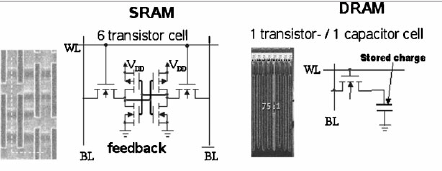
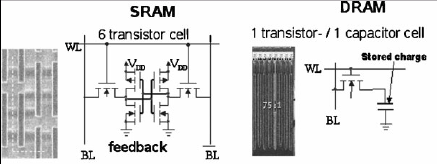
updated table

diff --git a/radiation.md b/radiation.md
@@ -92,7 +92,7 @@ SRAM is more rugged than capacitor based Dynamic Random Access Memory (DRAM). Ho
 
 <center>	 
 <figure>
-  <img src="{{ site.baseurl }}/images/sramdram.png" alt="SRAM and DRAM" style="width: 300px;"/>
+  <img src="{{ site.baseurl }}/images/sramdram.png" alt="SRAM and DRAM" style="width: 500px;"/>
   <figcaption>SRAM and DRAM</figcaption>
 </figure>
 </center>
@@ -112,21 +112,17 @@ SRAM vs DRAM
 <td>faster data access</td>
 <td>slower data access</td>
 </tr>
-</tr>
 <tr>
 <td>consumes more power</td>
 <td>consumes less power</td>
-</tr>
 </tr>
 <tr>
 <td>less density/memory per chip</td>
 <td>higher density/memory per chip</td>
 </tr>
-</tr>
 <tr>
 <td>higher cost per bit</td>
 <td>lower cost per bit</td>
-</tr>
 </tr>
 <tr>
 <td>stores data till power is supplied</td>
@@ -139,7 +135,7 @@ Substrate with wide band gap gives higher tolerance to deep level defects. WBG h
 
 <center>	 
 <figure>
-  <img src="{{ site.baseurl }}/images/wbg.png" alt="wbg" style="width: 300px;"/>
+  <img src="{{ site.baseurl }}/images/wbg.png" alt="wbg" style="width: 500px;"/>
   <figcaption>Energy Bandgap</figcaption>
 </figure>
 </center>
